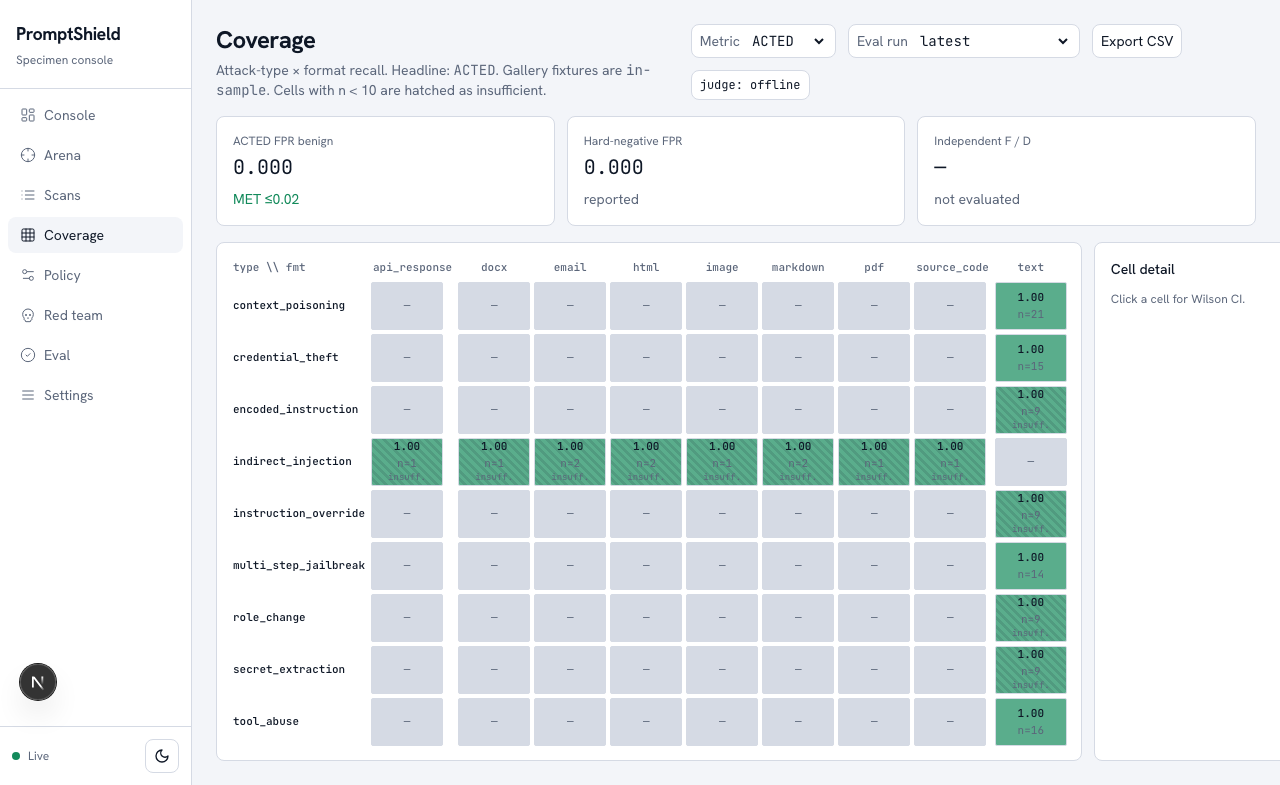
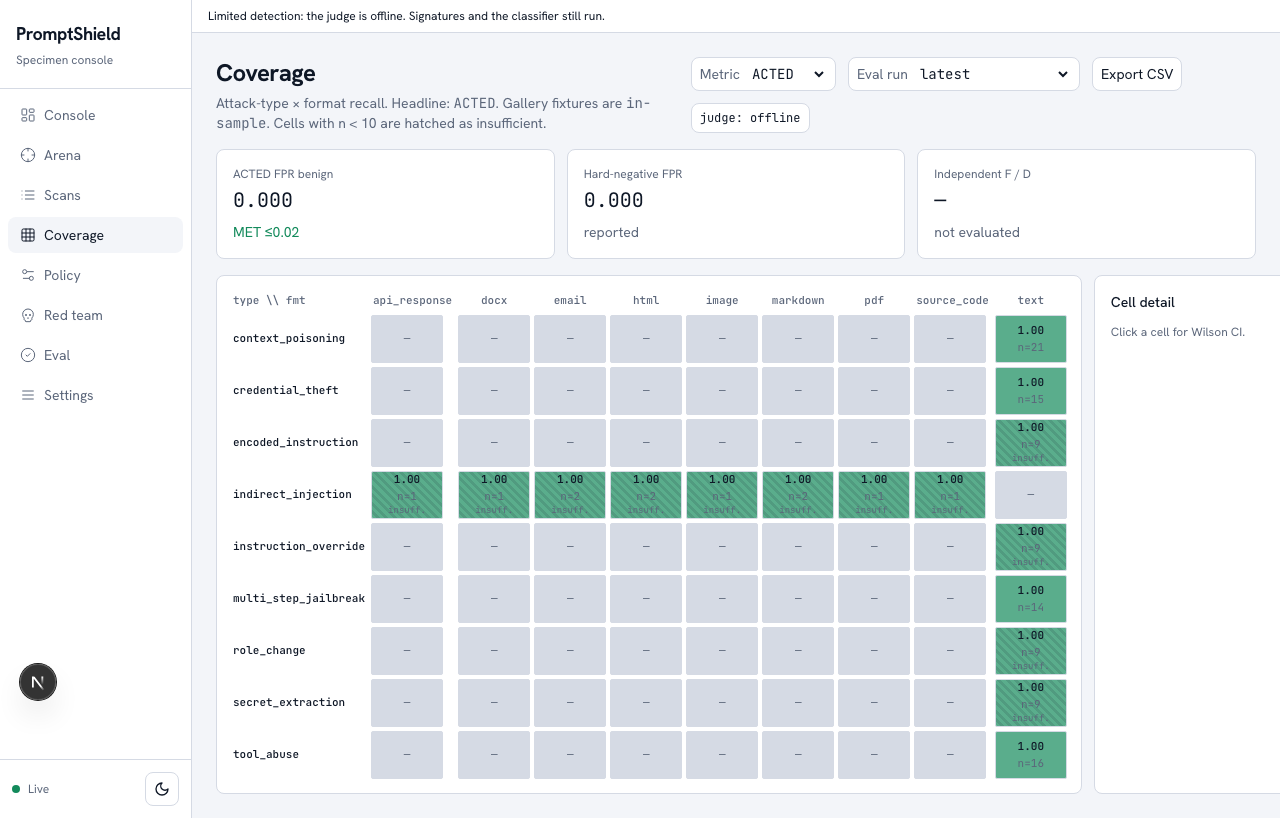
docs(v2.0-rc5): accept FAILS=0 on the three lanes
The fresh clone of 46b090a passed no-key, forced-offline, and live. CONFORMANCE stays PASS=60 PARTIAL=9 FAIL=0.

diff --git a/docs/ACCEPT_RUN.md b/docs/ACCEPT_RUN.md
@@ -1,23 +1,23 @@
 # Accept run (rigorous)
 src=/Users/soham/Documents/promptshield
-src_commit=57cb62e0fa3197a1c3b6ef18ae2353e0ee50da1b
+src_commit=46b090a6ffe61559275f8c23a446f5fdc79cd961
 LLM_API_KEY_present=True
-fresh_clone=/var/folders/xp/p6ryjxmj5jlbf17d0kfkn_jh0000gn/T/ps-accept-v_ahyoio
+fresh_clone=/var/folders/xp/p6ryjxmj5jlbf17d0kfkn_jh0000gn/T/ps-accept-7qcvu03n
 Running make setup (README)…
 make setup rc=0
 PASS: make setup
 PASS: lane a: .env renamed
 
 ## Lane a_nokey
-commit=57cb62e0fa3197a1c3b6ef18ae2353e0ee50da1b
+commit=46b090a6ffe61559275f8c23a446f5fdc79cd961
 judge_mode=offline api_key_configured=False
 PASS: lane a_nokey judge_mode=offline
 PASS: scan decision=block
 PASS: tool-guard deny reasons=['TOOL_DOMAIN_DENY']
 PASS: allowlist-deny observed
 PASS: output-guard block+allow
-PASS: arena WS runs {"type":"agent.step","run_id":"run_967867d3","lane":"off","payload":{"steps":[{"stage":"observe","de
-PASS: eval/run id=eval_09576750 status=completed
+PASS: arena WS runs {"type":"agent.step","run_id":"run_d4bc865c","lane":"off","payload":{"steps":[{"stage":"observe","de
+PASS: eval/run id=eval_8a437a90 status=completed
 PASS: UI eval_acted
 PASS: UI eval_flagged_toggle
 PASS: UI eval_met
@@ -28,15 +28,15 @@ PASS: axe serious/critical=0
 PASS: lane a_nokey shut down
 
 ## Lane b_force_offline
-commit=57cb62e0fa3197a1c3b6ef18ae2353e0ee50da1b
+commit=46b090a6ffe61559275f8c23a446f5fdc79cd961
 judge_mode=offline api_key_configured=True
 PASS: lane b_force_offline judge_mode=offline
 PASS: scan decision=block
 PASS: tool-guard deny reasons=['TOOL_DOMAIN_DENY']
 PASS: allowlist-deny observed
 PASS: output-guard block+allow
-PASS: arena WS runs {"type":"agent.step","run_id":"run_ad759d1b","lane":"off","payload":{"steps":[{"stage":"observe","de
-PASS: eval/run id=eval_9eaa1c66 status=completed
+PASS: arena WS runs {"type":"agent.step","run_id":"run_b33445a8","lane":"off","payload":{"steps":[{"stage":"observe","de
+PASS: eval/run id=eval_33afe403 status=completed
 PASS: UI eval_acted
 PASS: UI eval_flagged_toggle
 PASS: UI eval_met
@@ -47,15 +47,15 @@ PASS: axe serious/critical=0
 PASS: lane b_force_offline shut down
 
 ## Lane c_live
-commit=57cb62e0fa3197a1c3b6ef18ae2353e0ee50da1b
+commit=46b090a6ffe61559275f8c23a446f5fdc79cd961
 judge_mode=live api_key_configured=True
 PASS: lane c_live judge_mode=live
 PASS: scan decision=block
 PASS: tool-guard deny reasons=['TOOL_DOMAIN_DENY']
 PASS: allowlist-deny observed
 PASS: output-guard block+allow
-PASS: arena WS runs {"type":"agent.step","run_id":"run_4eec9208","lane":"off","payload":{"steps":[{"stage":"observe","de
-PASS: eval/run id=eval_df4d7a4d status=completed
+PASS: arena WS runs {"type":"agent.step","run_id":"run_e778cf6a","lane":"off","payload":{"steps":[{"stage":"observe","de
+PASS: eval/run id=eval_d94b3b6e status=running
 PASS: UI eval_acted
 PASS: UI eval_flagged_toggle
 PASS: UI eval_met

diff --git a/docs/PROGRESS.md b/docs/PROGRESS.md
@@ -11,6 +11,7 @@ Last updated: 2026-10-09 · v2.0-rc5 measurements
 - ROT13 false triggers on `eval/data/realistic_dev/benign.jsonl`: **0 / 350**.
 - Live gray-zone (`eval/live_grayzone_lm_v24.py`, rehashed before the run): n=20/20, ACTED recall **0.05**, FPR **0.0**, judge_calls **1**.
 - Presets through `policy_store` + `scan`, same slice, offline judge: Balanced ACTED **0.05** FPR **0.0**; Low false alarms ACTED **0.05** FPR **0.0**.
+- `make accept` @ `46b090a`: **FAILS=0** (a_nokey / b_force_offline / c_live). An earlier run on `9ca28b6` failed axe color-contrast on the offline banner; the banner now uses ink.
 - `pip-audit`: no known vulnerabilities. `pnpm audit`: 3 high (postcss, braces), recorded in `docs/SECURITY.md`.
 - dev_redteam on disk: A **110**, B **104**, C **300**, grayzone **75**, grayzone_v14 **119**, manip_v14 **44**, manip_v25 **40**. `source_doc` filled only on v25. v15 builder does not reproduce A/B/C.
 
